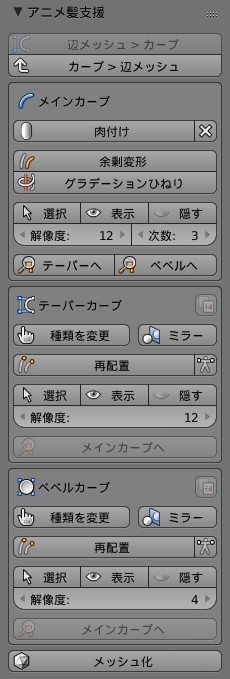
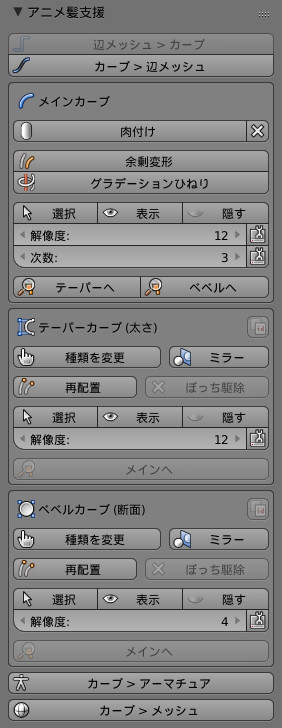
"カーブ > メッシュ"を実装

diff --git a/Anime Hair Supporter/convert_curve_to_mesh.py b/Anime Hair Supporter/convert_curve_to_mesh.py
@@ -1,59 +1,102 @@
-import bpy, mathutils, re
+import bpy, bmesh
 
 class ahs_convert_curve_to_mesh(bpy.types.Operator):
 	bl_idname = 'object.ahs_convert_curve_to_mesh'
-	bl_label = "カーブ > 辺メッシュ"
+	bl_label = "カーブ > メッシュ"
 	bl_options = {'REGISTER', 'UNDO'}
+	
+	is_remove_doubles = bpy.props.BoolProperty(name="重複頂点を削除", default=True)
+	is_pack_islands = bpy.props.BoolProperty(name="島を梱包", default=True)
 	
 	@classmethod
 	def poll(cls, context):
-		try:
-			for ob in context.selected_objects:
-				if ob.type != 'CURVE': continue
-				for spline in ob.data.splines:
-					if spline.type == 'NURBS': return True
-		except: return False
 		return True
 	
+	def draw(self, context):
+		self.layout.prop(self, 'is_remove_doubles', icon='STICKY_UVS_LOC', toggle=True)
+		self.layout.prop(self, 'is_pack_islands', icon='UV_ISLANDSEL', toggle=True)
+	
 	def execute(self, context):
-		name = context.active_object.name
-		re_result = re.search(r'^(.+):HairCurve', name)
-		if re_result: name = re_result.group(1)
+		pre_mesh_select_mode = context.tool_settings.mesh_select_mode
+		context.tool_settings.mesh_select_mode = (True, False, False)
 		
-		new_verts, new_edges = [], []
-		for ob in context.selected_objects[:]:
-			ob.select = False
-			if ob.type != 'CURVE': continue
-			curve = ob.data
+		target_objects = []
+		for ob in context.selected_objects:
+			if ob.type != 'CURVE':
+				ob.select = False
+				continue
+			if not ob.data.taper_object or not ob.data.bevel_object:
+				ob.select = False
+				continue
+			target_objects.append(ob)
+		if not len(target_objects): return {'CANCELLED'}
+		
+		taper_and_bevel_objects = []
+		for ob in target_objects:
+			taper_and_bevel_objects.append(ob.data.taper_object)
+			taper_and_bevel_objects.append(ob.data.bevel_object)
+		
+		bpy.ops.object.convert(target='MESH', keep_original=False)
+		
+		for ob in target_objects:
+			context.scene.objects.active = ob
+			bpy.ops.object.mode_set(mode='EDIT')
+			bpy.ops.mesh.select_all(action='DESELECT')
 			
-			splines = [s for s in curve.splines if s.type == 'NURBS' and 2 <= len(s.points)]
-			if not len(splines): continue
+			bm = bmesh.from_edit_mesh(ob.data)
 			
-			# テーパー/ベベルを完全削除
-			if curve.taper_object:
-				temp_ob = curve.taper_object
-				context.blend_data.curves.remove(temp_ob.data, do_unlink=True)
-				context.blend_data.objects.remove(temp_ob, do_unlink=True)
-			if curve.bevel_object:
-				temp_ob = curve.bevel_object
-				context.blend_data.curves.remove(temp_ob.data, do_unlink=True)
-				context.blend_data.objects.remove(temp_ob, do_unlink=True)
+			bm.faces.ensure_lookup_table()
+			center_face = bm.faces[int(len(bm.faces) * 0.5)]
+			center_face.loops[1].edge.select_set(True)
 			
-			# 頂点/辺情報を格納
-			for spline in splines:
-				for index, point in enumerate(spline.points):
-					if 1 <= index: new_edges.append((len(new_verts)-1, len(new_verts)))
-					new_verts.append( ob.matrix_world * mathutils.Vector(point.co[:3]) )
+			bpy.ops.mesh.loop_multi_select(ring=False)
 			
+			selected_verts = [v for v in bm.verts if v.select]
+			selected_edges = [e for e in bm.edges if e.select]
+			bpy.ops.mesh.select_all(action='DESELECT')
+			
+			verts_co_z = [(ob.matrix_world * v.co).z for v in selected_verts]
+			verts_density = []
+			for vert in selected_verts:
+				lengths = [e.calc_length() for e in vert.link_edges]
+				verts_density.append(sum(lengths) / len(lengths))
+			best_vert, best_score = selected_verts[0], 0
+			for vert, co_z, density in zip(selected_verts, verts_co_z, verts_density):
+				co_z_score = (co_z - min(verts_co_z)) / (max(verts_co_z) - min(verts_co_z))
+				density_score = (density - min(verts_density)) / (max(verts_density) - min(verts_density))
+				score = (1 - co_z_score) + (1 - density_score)
+				if best_score < score:
+					best_vert, best_score = vert, score
+			
+			for edge in best_vert.link_edges:
+				if edge not in selected_edges:
+					edge.select_set(True)
+			bpy.ops.mesh.loop_multi_select(ring=False)
+			bpy.ops.mesh.mark_seam(clear=False)
+			
+			if self.is_remove_doubles:
+				bpy.ops.mesh.select_all(action='DESELECT')
+				bpy.ops.mesh.select_non_manifold(extend=True, use_wire=True, use_boundary=True, use_multi_face=True, use_non_contiguous=True, use_verts=True)
+				bpy.ops.mesh.remove_doubles(threshold=0.0001, use_unselected=False)
+			
+			bpy.ops.mesh.select_all(action='SELECT')
+			bpy.ops.uv.unwrap(method='ANGLE_BASED', fill_holes=True, correct_aspect=True, use_subsurf_data=False, margin=0.001)
+			
+			bmesh.update_edit_mesh(ob.data)
+			bpy.ops.object.mode_set(mode='OBJECT')
+		
+		context.scene.objects.active = sorted(target_objects, key=lambda o: o.name)[0]
+		bpy.ops.object.join()
+		
+		if self.is_pack_islands:
+			bpy.ops.object.mode_set(mode='EDIT')
+			bpy.ops.mesh.select_all(action='SELECT')
+			bpy.ops.uv.pack_islands(rotate=False, margin=0.02)
+			bpy.ops.object.mode_set(mode='OBJECT')
+		
+		for ob in taper_and_bevel_objects:
 			context.blend_data.curves.remove(ob.data, do_unlink=True)
 			context.blend_data.objects.remove(ob, do_unlink=True)
 		
-		me = context.blend_data.meshes.new(name)
-		me.from_pydata(new_verts, new_edges, [])
-		
-		ob = context.blend_data.objects.new(name, me)
-		context.scene.objects.link(ob)
-		ob.select = True
-		context.scene.objects.active = ob
-		
+		context.tool_settings.mesh_select_mode = pre_mesh_select_mode
 		return {'FINISHED'}

diff --git a/Anime Hair Supporter/convert_curve_to_edgemesh.py b/Anime Hair Supporter/convert_curve_to_edgemesh.py
@@ -1,0 +1,59 @@
+import bpy, mathutils, re
+
+class ahs_convert_curve_to_edgemesh(bpy.types.Operator):
+	bl_idname = 'object.ahs_convert_curve_to_edgemesh'
+	bl_label = "カーブ > 辺メッシュ"
+	bl_options = {'REGISTER', 'UNDO'}
+	
+	@classmethod
+	def poll(cls, context):
+		try:
+			for ob in context.selected_objects:
+				if ob.type != 'CURVE': continue
+				for spline in ob.data.splines:
+					if spline.type == 'NURBS': return True
+		except: return False
+		return True
+	
+	def execute(self, context):
+		name = context.active_object.name
+		re_result = re.search(r'^(.+):HairCurve', name)
+		if re_result: name = re_result.group(1)
+		
+		new_verts, new_edges = [], []
+		for ob in context.selected_objects[:]:
+			ob.select = False
+			if ob.type != 'CURVE': continue
+			curve = ob.data
+			
+			splines = [s for s in curve.splines if s.type == 'NURBS' and 2 <= len(s.points)]
+			if not len(splines): continue
+			
+			# テーパー/ベベルを完全削除
+			if curve.taper_object:
+				temp_ob = curve.taper_object
+				context.blend_data.curves.remove(temp_ob.data, do_unlink=True)
+				context.blend_data.objects.remove(temp_ob, do_unlink=True)
+			if curve.bevel_object:
+				temp_ob = curve.bevel_object
+				context.blend_data.curves.remove(temp_ob.data, do_unlink=True)
+				context.blend_data.objects.remove(temp_ob, do_unlink=True)
+			
+			# 頂点/辺情報を格納
+			for spline in splines:
+				for index, point in enumerate(spline.points):
+					if 1 <= index: new_edges.append((len(new_verts)-1, len(new_verts)))
+					new_verts.append( ob.matrix_world * mathutils.Vector(point.co[:3]) )
+			
+			context.blend_data.curves.remove(ob.data, do_unlink=True)
+			context.blend_data.objects.remove(ob, do_unlink=True)
+		
+		me = context.blend_data.meshes.new(name)
+		me.from_pydata(new_verts, new_edges, [])
+		
+		ob = context.blend_data.objects.new(name, me)
+		context.scene.objects.link(ob)
+		ob.select = True
+		context.scene.objects.active = ob
+		
+		return {'FINISHED'}

diff --git a/Anime Hair Supporter/_panel.py b/Anime Hair Supporter/_panel.py
@@ -12,10 +12,10 @@ class VIEW3D_PT_tools_anime_hair_supporter(bpy.types.Panel):
 		# コンバーターズ
 		column = self.layout.column(align=True)
 		row = column.row(align=True)
-		row.operator('object.ahs_convert_mesh_to_curve', icon='IPO_CONSTANT')
+		row.operator('object.ahs_convert_edgemesh_to_curve', icon='IPO_CONSTANT')
 		row.enabled = bool( len([o for o in context.selected_objects if o.type == 'MESH']) )
 		row = column.row(align=True)
-		row.operator('object.ahs_convert_curve_to_mesh', icon='IPO_EASE_IN_OUT')
+		row.operator('object.ahs_convert_curve_to_edgemesh', icon='IPO_EASE_IN_OUT')
 		row.enabled = bool( len([o for o in context.selected_objects if o.type == 'CURVE']) )
 		
 		
@@ -168,7 +168,7 @@ class VIEW3D_PT_tools_anime_hair_supporter(bpy.types.Panel):
 		row.enabled = bool(len([o for o in context.selected_objects if o.type == 'CURVE']))
 		
 		row = self.layout.row(align=True)
-		row.operator('object.convert', text="メッシュ化", icon='MESH_UVSPHERE').target = 'MESH'
+		row.operator('object.ahs_convert_curve_to_mesh', icon='MESH_UVSPHERE')
 		for ob in context.selected_objects:
 			if ob.type != 'CURVE': continue
 			if ob.data.taper_object and ob.data.bevel_object:

diff --git a/Anime Hair Supporter/convert_curve_to_armature.py b/Anime Hair Supporter/convert_curve_to_armature.py
@@ -13,10 +13,9 @@ class ahs_convert_curve_to_armature(bpy.types.Operator):
 	
 	def execute(self, context):
 		bone_points = []
-		
-		selected_curve_objects = [o for o in context.selected_objects if o.type == 'CURVE']
-		for ob in selected_curve_objects:
+		for ob in context.selected_objects:
 			ob.select = False
+			if ob.type != 'CURVE': continue
 			if not len(ob.data.splines): continue
 			if len(ob.data.splines[0].points) < 2: continue
 			
@@ -95,7 +94,7 @@ class ahs_convert_curve_to_armature(bpy.types.Operator):
 			prev_bone = None
 			for point_index, point in enumerate(local_bone_points):
 				if point_index == 0: continue
-				new_bone = new_arm.edit_bones.new("Hair:" + str(index) + "-" + str(point_index))
+				new_bone = new_arm.edit_bones.new("Hair " + str(index+1) + "-" + str(point_index))
 				new_bone.head = local_bone_points[point_index - 1].copy()
 				new_bone.tail = point.copy()
 				new_bone.parent = prev_bone

diff --git a/Anime Hair Supporter/__init__.py b/Anime Hair Supporter/__init__.py
@@ -19,8 +19,8 @@ if 'bpy' in locals():
 	import imp
 	imp.reload(_panel)
 	
-	imp.reload(convert_mesh_to_curve)
-	imp.reload(convert_curve_to_mesh)
+	imp.reload(convert_edgemesh_to_curve)
+	imp.reload(convert_curve_to_edgemesh)
 	
 	imp.reload(maincurve_fleshout)
 	imp.reload(maincurve_fleshlose)
@@ -42,11 +42,12 @@ if 'bpy' in locals():
 	imp.reload(tapercurve_remove_alones)
 	
 	imp.reload(convert_curve_to_armature)
+	imp.reload(convert_curve_to_mesh)
 else:
 	from . import _panel
 	
-	from . import convert_mesh_to_curve
-	from . import convert_curve_to_mesh
+	from . import convert_edgemesh_to_curve
+	from . import convert_curve_to_edgemesh
 	
 	from . import maincurve_fleshout
 	from . import maincurve_fleshlose
@@ -68,6 +69,7 @@ else:
 	from . import tapercurve_remove_alones
 	
 	from . import convert_curve_to_armature
+	from . import convert_curve_to_mesh
 
 # この位置に記述 (重要)
 import bpy

diff --git a/Anime Hair Supporter/convert_edgemesh_to_curve.py b/Anime Hair Supporter/convert_edgemesh_to_curve.py
@@ -1,7 +1,7 @@
 import bpy, bmesh, mathutils
 
-class ahs_convert_mesh_to_curve(bpy.types.Operator):
-	bl_idname = 'object.ahs_convert_mesh_to_curve'
+class ahs_convert_edgemesh_to_curve(bpy.types.Operator):
+	bl_idname = 'object.ahs_convert_edgemesh_to_curve'
 	bl_label = "辺メッシュ > カーブ"
 	bl_options = {'REGISTER', 'UNDO'}
 	
